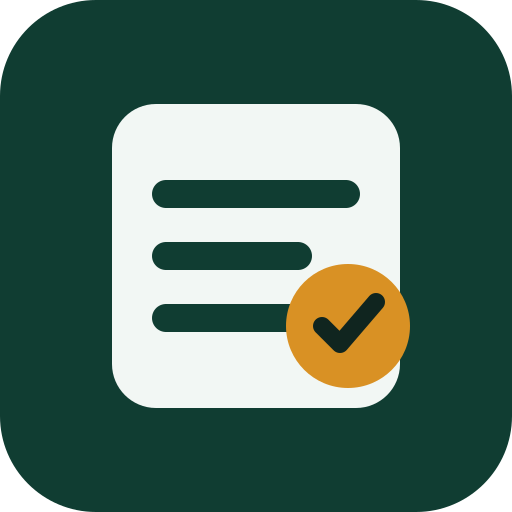
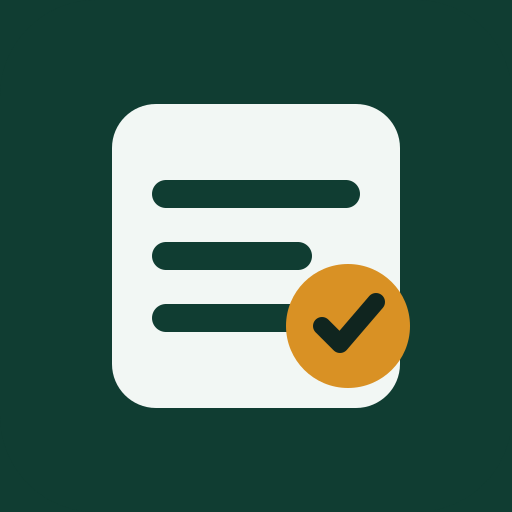
fix: honor safe PWA update boundaries

diff --git a/apps/web/src/pages/ReviewPage.test.tsx b/apps/web/src/pages/ReviewPage.test.tsx
@@ -128,6 +128,53 @@ afterEach(() => {
 });
 
 describe("ReviewPage NVDA interaction", () => {
+  it("marks only an actually active review as update-blocking", async () => {
+    const active = await renderReview();
+    await screen.findByRole("heading", {
+      name: "What is active recall?",
+    });
+    expect(
+      active.container.querySelector(
+        '[data-openrecall-review-active="true"]',
+      ),
+    ).not.toBeNull();
+    active.unmount();
+
+    const paused = await renderReview("en", {
+      ...questionState,
+      session: progress({ status: "paused" }),
+    });
+    await screen.findByRole("heading", {
+      name: "What is active recall?",
+    });
+    expect(
+      paused.container.querySelector(
+        '[data-openrecall-review-active="true"]',
+      ),
+    ).toBeNull();
+    paused.unmount();
+
+    const completed = await renderReview("en", {
+      kind: "completed",
+      summary: {
+        sessionId: SESSION_ID,
+        sectionId: SECTION_ID,
+        completedAtMs: 2_000,
+        reviewEvents: 1,
+        uniqueItems: 1,
+        repeatedWithinSession: 0,
+        elapsedActiveMs: 1_000,
+        ratingCounts: { again: 0, hard: 0, good: 1, easy: 0 },
+      },
+    });
+    await screen.findByRole("heading", { name: "Review complete" });
+    expect(
+      completed.container.querySelector(
+        '[data-openrecall-review-active="true"]',
+      ),
+    ).toBeNull();
+  });
+
   it("does not reveal until the server has recorded the shown presentation", async () => {
     let releaseShown: (() => void) | undefined;
     const shownGate = new Promise<void>((resolve) => {

diff --git a/apps/web/src/pwa/UpdatePrompt.test.tsx b/apps/web/src/pwa/UpdatePrompt.test.tsx
@@ -25,10 +25,7 @@ describe("UpdatePrompt", () => {
     const harness = await promptHarness();
     render(
       <I18nProvider i18n={harness.i18n}>
-        <UpdatePrompt
-          activeReview={false}
-          controller={harness.controller}
-        />
+        <UpdatePrompt controller={harness.controller} />
       </I18nProvider>,
     );
     act(() => harness.showUpdate());
@@ -51,10 +48,9 @@ describe("UpdatePrompt", () => {
     const harness = await promptHarness();
     const { rerender } = render(
       <I18nProvider i18n={harness.i18n}>
-        <UpdatePrompt
-          activeReview
-          controller={harness.controller}
-        />
+        <main data-openrecall-review-active="true">
+          <UpdatePrompt controller={harness.controller} />
+        </main>
       </I18nProvider>,
     );
     act(() => harness.showUpdate());
@@ -68,10 +64,7 @@ describe("UpdatePrompt", () => {
     rerender(
       <I18nProvider i18n={harness.i18n}>
         <form data-openrecall-dirty="true">
-          <UpdatePrompt
-            activeReview={false}
-            controller={harness.controller}
-          />
+          <UpdatePrompt controller={harness.controller} />
         </form>
       </I18nProvider>,
     );
@@ -82,10 +75,7 @@ describe("UpdatePrompt", () => {
 
     rerender(
       <I18nProvider i18n={harness.i18n}>
-        <UpdatePrompt
-          activeReview={false}
-          controller={harness.controller}
-        />
+        <UpdatePrompt controller={harness.controller} />
       </I18nProvider>,
     );
     await user.click(

diff --git a/apps/web/src/main.tsx b/apps/web/src/main.tsx
@@ -62,24 +62,9 @@ async function start(): Promise<void> {
     // A service-worker registration failure must not prevent local study.
   }
 
+  let bootstrap: Awaited<ReturnType<typeof api.bootstrap>>;
   try {
-    const bootstrap = await api.bootstrap();
-    prepareLocale(bootstrap.locale);
-    try {
-      localStorage.setItem(localeStorageKey, bootstrap.locale);
-    } catch {
-      // Locale persistence is a convenience, not a startup dependency.
-    }
-    const i18n = await createI18n(bootstrap.locale);
-    const router = createBrowserRouter(
-      createRoutes({ api, i18n, updates }),
-    );
-
-    root.render(
-      <StrictMode>
-        <RouterProvider router={router} />
-      </StrictMode>,
-    );
+    bootstrap = await api.bootstrap();
   } catch {
     const locale = rememberedLocale();
     prepareLocale(locale);
@@ -91,7 +76,23 @@ async function start(): Promise<void> {
         </I18nProvider>
       </StrictMode>,
     );
+    return;
   }
+
+  prepareLocale(bootstrap.locale);
+  try {
+    localStorage.setItem(localeStorageKey, bootstrap.locale);
+  } catch {
+    // Locale persistence is a convenience, not a startup dependency.
+  }
+  const i18n = await createI18n(bootstrap.locale);
+  const router = createBrowserRouter(createRoutes({ api, i18n, updates }));
+
+  root.render(
+    <StrictMode>
+      <RouterProvider router={router} />
+    </StrictMode>,
+  );
 }
 
 void start().catch((error: unknown) => {

diff --git a/tests/e2e/start-server.ts b/tests/e2e/start-server.ts
@@ -11,6 +11,7 @@ import { buildServer } from "../../apps/server/src/app.js";
 import type { DueWakeService } from "../../apps/server/src/review/due-wake-service.js";
 import { openDatabase } from "../../packages/database/src/index.js";
 import { seedOptimizerFixture } from "./seed-optimizer-fixture.js";
+import { e2eClockPath } from "./e2e-paths.js";
 
 const INITIAL_NOW_MS = Date.UTC(2025, 0, 1, 12);
 const serverPort = Number(process.env["OPENRECALL_E2E_API_PORT"] ?? "3210");
@@ -22,14 +23,7 @@ const locale =
     : localeCandidate === "en"
       ? "en"
       : "ar";
-const clockSuffix =
-  locale === "ar" ? "" : locale === "en" ? "-en" : "-xa";
-const clockPath = join(
-  process.cwd(),
-  "tests",
-  "e2e",
-  `.openrecall-clock${clockSuffix}`,
-);
+const clockPath = e2eClockPath(serverPort);
 writeFileSync(clockPath, String(INITIAL_NOW_MS), "utf8");
 let currentNowMs = INITIAL_NOW_MS;
 

diff --git a/apps/web/src/pwa/pwa-build.test.ts b/apps/web/src/pwa/pwa-build.test.ts
@@ -2,6 +2,7 @@ import { mkdtemp, readFile, readdir, rm } from "node:fs/promises";
 import { tmpdir } from "node:os";
 import { resolve } from "node:path";
 import { afterAll, beforeAll, describe, expect, it } from "vitest";
+import sharp from "sharp";
 import { build } from "vite";
 
 const webRoot = resolve("apps/web");
@@ -106,5 +107,18 @@ describe("production PWA build", () => {
         ),
       ).toEqual({ width: size, height: size });
     }
+
+    const regular = await readFile(
+      resolve(outputDirectory, "icon-512.png"),
+    );
+    const maskable = await readFile(
+      resolve(outputDirectory, "icon-maskable-512.png"),
+    );
+    expect(maskable.equals(regular)).toBe(false);
+    const { data } = await sharp(maskable)
+      .ensureAlpha()
+      .raw()
+      .toBuffer({ resolveWithObject: true });
+    expect(data[3]).toBe(255);
   });
 });

diff --git a/apps/web/src/pwa/UpdatePrompt.tsx b/apps/web/src/pwa/UpdatePrompt.tsx
@@ -3,10 +3,8 @@ import { useI18n } from "../app/I18nProvider.js";
 import type { ServiceWorkerUpdateController } from "./register-service-worker.js";
 
 export function UpdatePrompt({
-  activeReview,
   controller,
 }: {
-  readonly activeReview: boolean;
   readonly controller: ServiceWorkerUpdateController;
 }) {
   const { t } = useI18n();
@@ -21,10 +19,13 @@ export function UpdatePrompt({
   if (!snapshot.needRefresh && !snapshot.offlineReady) return null;
 
   const update = async (): Promise<void> => {
+    const activeReview = document.querySelector(
+      '[data-openrecall-review-active="true"]',
+    );
     const dirtyEditor = document.querySelector(
       '[data-openrecall-dirty="true"]',
     );
-    if (activeReview || dirtyEditor !== null) {
+    if (activeReview !== null || dirtyEditor !== null) {
       setBlocked(true);
       return;
     }

diff --git a/apps/web/src/app/AppShell.tsx b/apps/web/src/app/AppShell.tsx
@@ -1,5 +1,5 @@
 import { useEffect, useState, type MouseEvent } from "react";
-import { Link, Outlet, useLocation } from "react-router";
+import { Link, Outlet } from "react-router";
 import { UpdatePrompt } from "../pwa/UpdatePrompt.js";
 import {
   inactiveServiceWorkerUpdateController,
@@ -20,7 +20,6 @@ export function AppShell({
 }) {
   const { t } = useI18n();
   const theme = useTheme();
-  const location = useLocation();
   const [navigationBlocked, setNavigationBlocked] = useState(false);
 
   useEffect(() => {
@@ -100,10 +99,7 @@ export function AppShell({
         <RouteFocus />
         <Outlet />
       </main>
-      <UpdatePrompt
-        activeReview={location.pathname.startsWith("/review/")}
-        controller={updates}
-      />
+      <UpdatePrompt controller={updates} />
     </>
   );
 }

diff --git a/apps/web/src/pages/ReviewPage.tsx b/apps/web/src/pages/ReviewPage.tsx
@@ -44,6 +44,8 @@ export function ReviewPage({ api }: { readonly api: ApiClient }) {
   );
   const claimInFlight = useRef(false);
   const sessionId = sessionIdOf(page);
+  const activeReview =
+    page.kind !== "completed" && page.session.status === "active";
 
   useReviewEvents(sessionId);
 
@@ -224,7 +226,7 @@ export function ReviewPage({ api }: { readonly api: ApiClient }) {
   });
 
   return (
-    <>
+    <div data-openrecall-review-active={activeReview ? "true" : "false"}>
       <div role="status" aria-atomic="true" className="sr-status">
         {announcement}
       </div>
@@ -315,6 +317,6 @@ export function ReviewPage({ api }: { readonly api: ApiClient }) {
           onPause={pause}
         />
       )}
-    </>
+    </div>
   );
 }

diff --git a/tests/e2e/optimizer-durability.spec.ts b/tests/e2e/optimizer-durability.spec.ts
@@ -7,8 +7,9 @@ import {
   SCHEMA_VERSION,
 } from "../../packages/database/src/index.js";
 import { OPTIMIZER_FIXTURE_ACTIVE_PROFILE_ID } from "./seed-optimizer-fixture.js";
+import { e2eClockPath } from "./e2e-paths.js";
 
-const clockPath = resolve("tests/e2e/.openrecall-clock");
+const clockPath = e2eClockPath(3_214);
 
 test.describe.serial("optimizer and SQLite durability", () => {
   test("cancels and completes a real optimizer worker, applies a preview, and rolls back", async ({

diff --git a/apps/web/src/app/ServerUnavailable.test.tsx b/apps/web/src/app/ServerUnavailable.test.tsx
@@ -28,6 +28,9 @@ describe("ServerUnavailable", () => {
         .getByRole("link", { name: "How to start OpenRecall" })
         .getAttribute("href"),
     ).toBe("#startup-instructions");
+    expect(
+      screen.getByText("pnpm --filter @openrecall/server start"),
+    ).not.toBeNull();
     await user.click(screen.getByRole("button", { name: "Retry" }));
     expect(retry).toHaveBeenCalledOnce();
   });

diff --git a/tests/e2e/review-core.spec.ts b/tests/e2e/review-core.spec.ts
@@ -1,8 +1,8 @@
 import { writeFile } from "node:fs/promises";
-import { resolve } from "node:path";
 import { expect, test } from "@playwright/test";
+import { e2eClockPath } from "./e2e-paths.js";
 
-const clockPath = resolve("tests/e2e/.openrecall-clock");
+const clockPath = e2eClockPath(3_210);
 
 test("review core continuously rotates variants, resumes, and finishes with a summary", async ({
   page,

diff --git a/apps/web/src/app/ServerUnavailable.tsx b/apps/web/src/app/ServerUnavailable.tsx
@@ -36,7 +36,7 @@ export function ServerUnavailable({
         </h2>
         <p>{t("serverUnavailable.helpBody")}</p>
         <pre>
-          <code>pnpm start</code>
+          <code>pnpm --filter @openrecall/server start</code>
         </pre>
       </section>
     </main>
